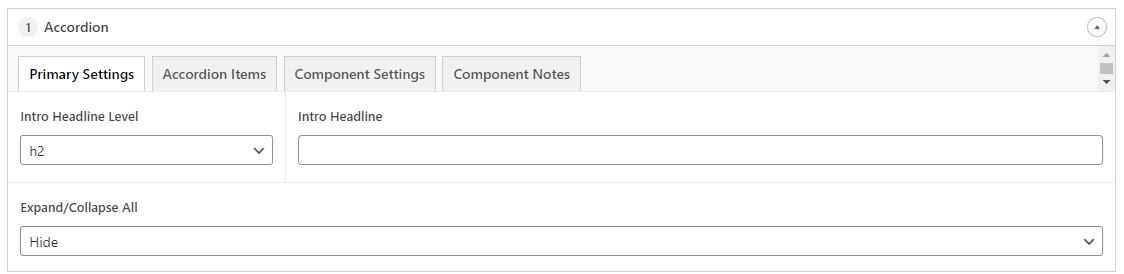
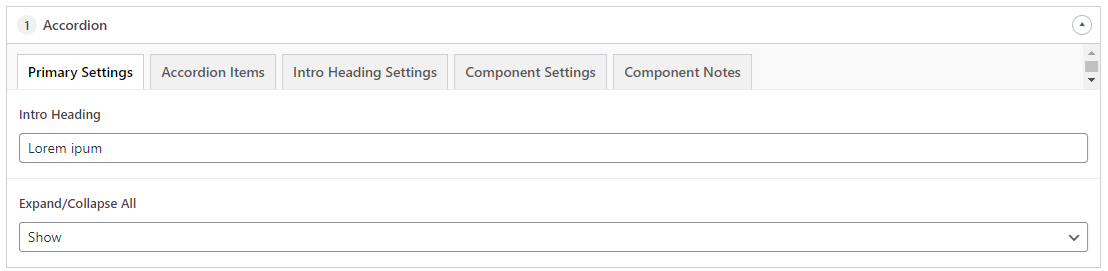
Deploy

diff --git a/Writerside/topics/Accordion.md b/Writerside/topics/Accordion.md
@@ -8,20 +8,14 @@
 
 ![accordion-tab-primary-settings](accordion-tab-primary-settings.png)
 
-#### Intro Headline Level
-
-{type="wide"}
-Widget
-:   Dropdown
-
-Options
-:  h1, h2, h3, h4, h5, h6
-
 #### Intro Headline
 
 {type="wide"}
 Widget
 :   Text field
+
+Required
+:  No
 
 #### Expand/Collapse All
 
@@ -32,7 +26,63 @@ Widget
 Options
 :  Hide, Show
 
+Default
+:  Hide
+
 ### Accordion Items
+
+![](accordion-tab-accordion-items.png)
+
+#### Accordion Items {id="accordion-items_1"}
+
+{type="wide"}
+Widget
+:   Flexible Content
+
+Minimum
+:  1
+
+Maximum
+:  none
+
+Layouts
+: Simple Accordion Item
+
+### Intro Heading Settings
+
+![](accordion-tab-intro-heading-settings.png)
+
+#### Heading Level
+
+If an intro heading level is provided, this setting determines the HTML heading level to
+use for the headline's tag.
+
+{type="wide"}
+Widget
+:   Dropdown
+
+Options
+:  h1, h2, h3, h4, h5, h6
+
+Default
+:  h2
+
+#### Include in Document Outline
+
+This setting determines that HTML tag that is used if an intro heading is provided. If set
+to "No", a `<div>` tag will be used along with a class of `h1` through `h6` depending on
+the heading level selected above. If set to "Yes", the appropriate heading tag will be
+used. See [Headings](Headings.md) for more details.
+
+{type="wide"}
+Widget
+:   Dropdown
+
+Options
+:  Yes, No
+
+Default
+:  Yes
 
 ### Component Settings
 
@@ -40,10 +90,23 @@ Options
 
 #### Row ID
 
+This is the common Row ID that is shared across all components and some sub-components.
+It is intended to be used by content authors to link to a specific component on a page.
+
 {type="wide"}
 Widget
 :   Text field
 
+Required
+:  No
+
 ## Component Notes
 
-* Clicking the “collapse all” button will have no effect on accordion items marked as “always open”.
+* Clicking the “collapse all” button will have no effect on accordion items marked as
+  “always open”.
+
+## Accessibility
+
+The accordion component uses the HTML5 `<details>` and `<summary>` elements to provide the
+accordion functionality. As these are browser-native elements, they should be fairly
+accessible by default.

diff --git a/Writerside/topics/Widgets.md b/Writerside/topics/Widgets.md
@@ -1,0 +1,20 @@
+# Widgets
+
+## Text field
+
+A text field is a single line of text.
+
+## Dropdown
+
+A dropdown is a list of options that can be selected by the user, and is represented by
+an HTML `<select>` element. Dropdowns are always required, however a system default
+will always be set.
+
+## Flexible content
+
+Flexible content is a collection of components or sub-components that can be added to a
+component. When adding a row to a flexible content field, if two or more templates have
+been previously been created (by the development team), the user will be presented with
+a dropdown or picker to select the template to use for the new row. If only one template
+exists, the user will not be presented with a dropdown or picker, and the template will
+be automatically selected.

diff --git a/Writerside/topics/Headings.md b/Writerside/topics/Headings.md
@@ -1,0 +1,6 @@
+# Headings
+
+When choosing an HTML tag to represent a heading, Vendi recommends only using an `h1`
+through `h6` tag if the text is part of the document's outline. If text doesn't meet
+this criteria, use a `div` or `span` tag instead. Vendi has created CSS classes of
+`h1` through `h6` that mimic the styles of the corresponding heading tags.

diff --git a/Writerside/topics/Documentation-Notes.md b/Writerside/topics/Documentation-Notes.md
@@ -1,0 +1,1 @@
+# Documentation Notes
